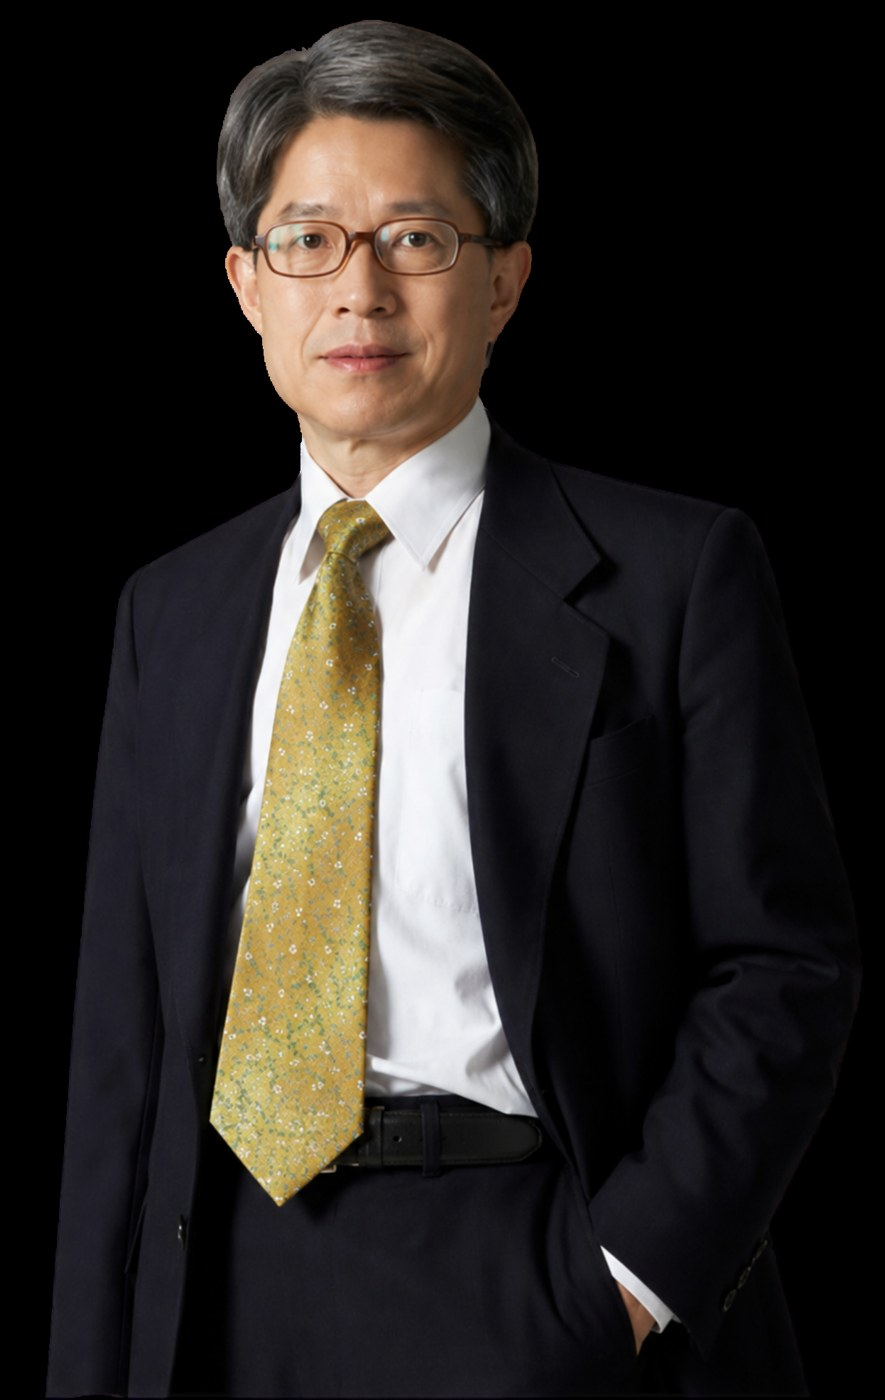
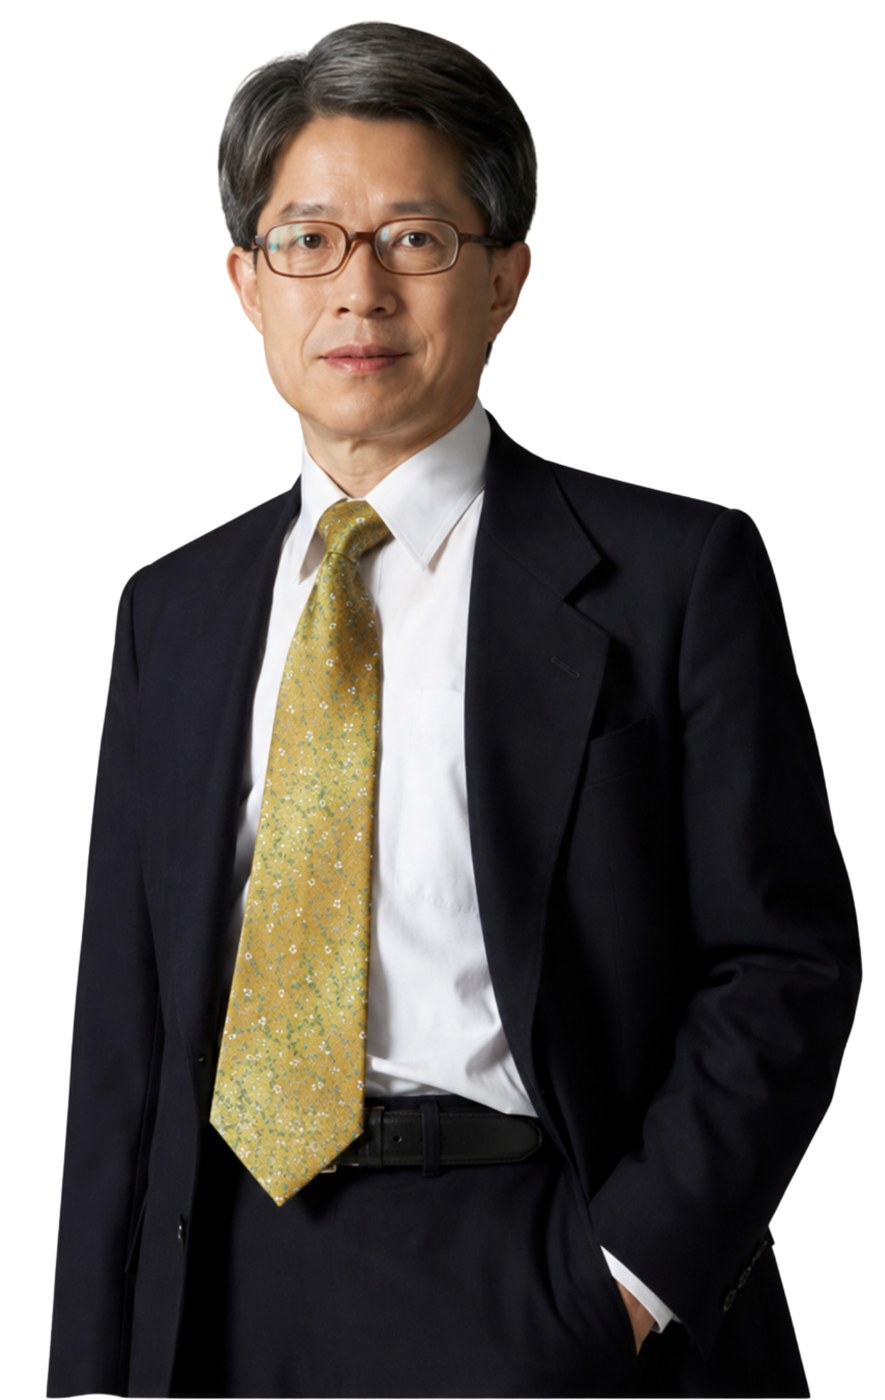
원장 사진 투명 배경을 흰색으로 보정

diff --git a/about.html b/about.html
@@ -49,7 +49,7 @@
       <h2>의료진 소개</h2>
     </div>
     <div class="doc-flex">
-      <img class="doc-photo" src="images/doctor.jpg?v=2" alt="박종윤 대표원장">
+      <img class="doc-photo" src="images/doctor.jpg?v=3" alt="박종윤 대표원장">
       <div>
         <h3 class="doc-name">박종윤 <small>대표원장</small></h3>
         <ul class="doc-list">
